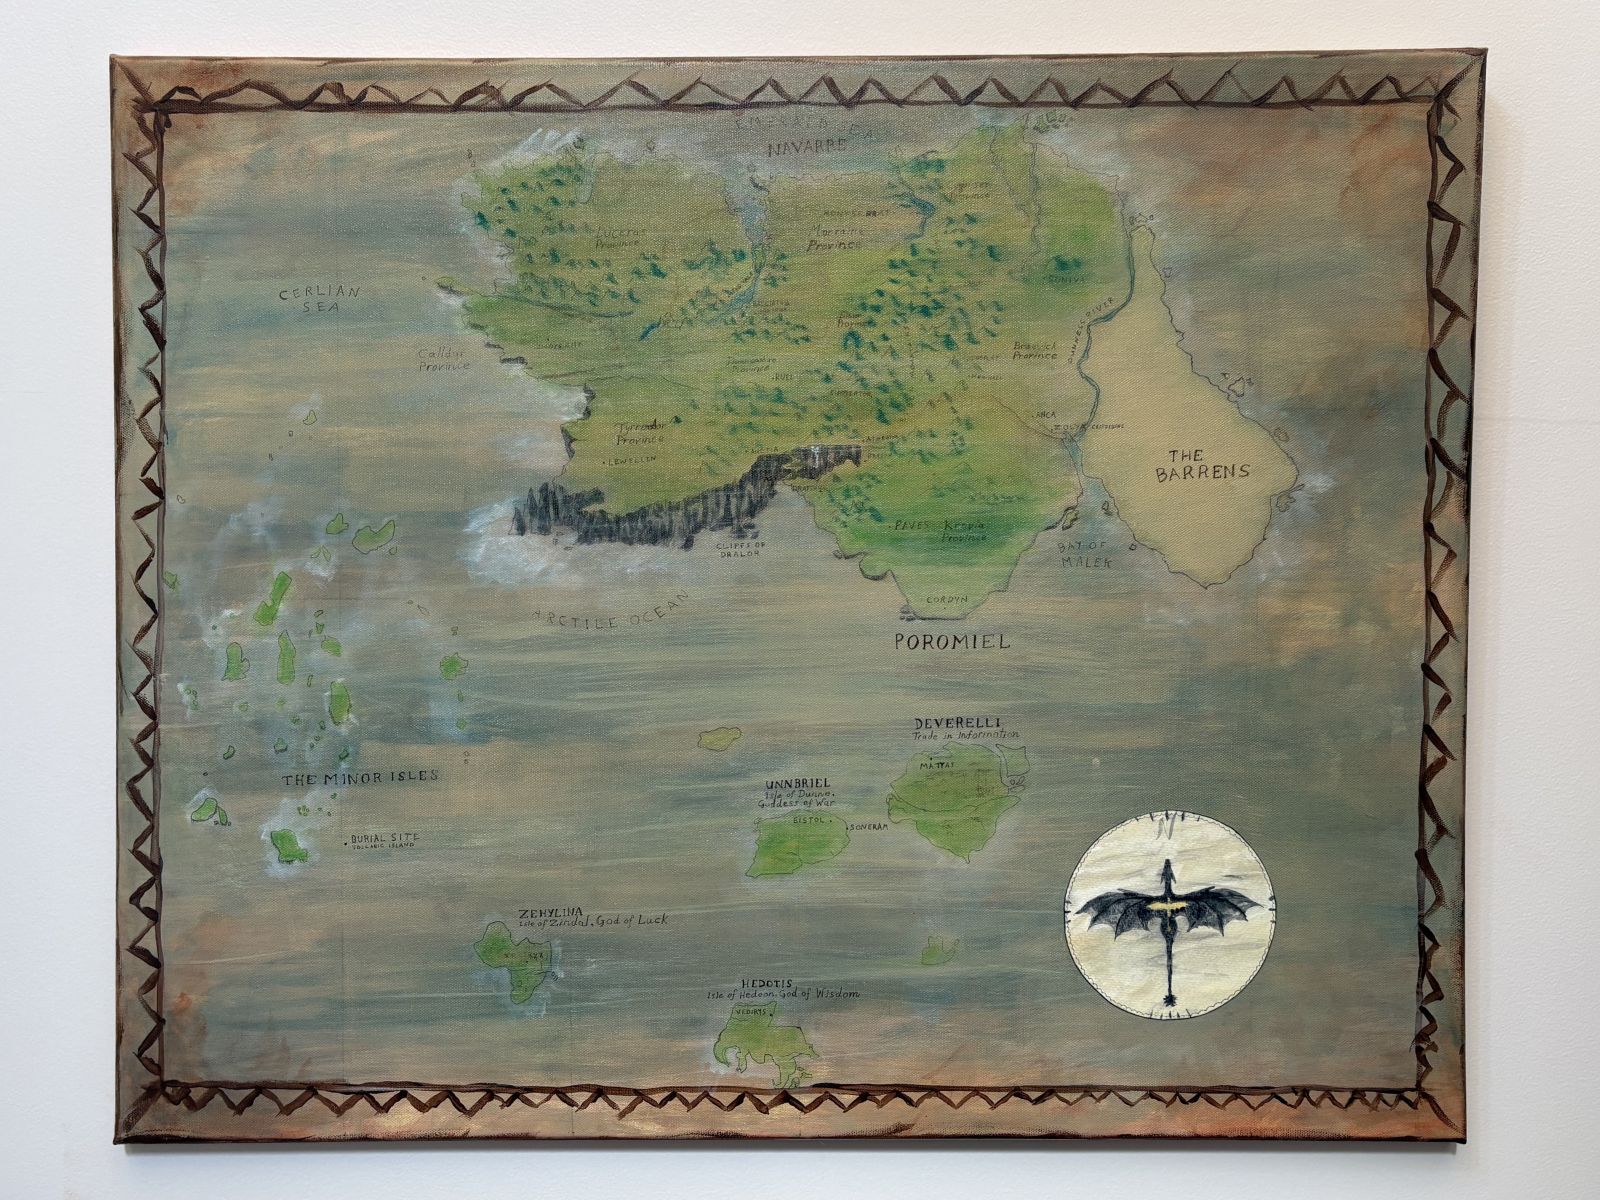
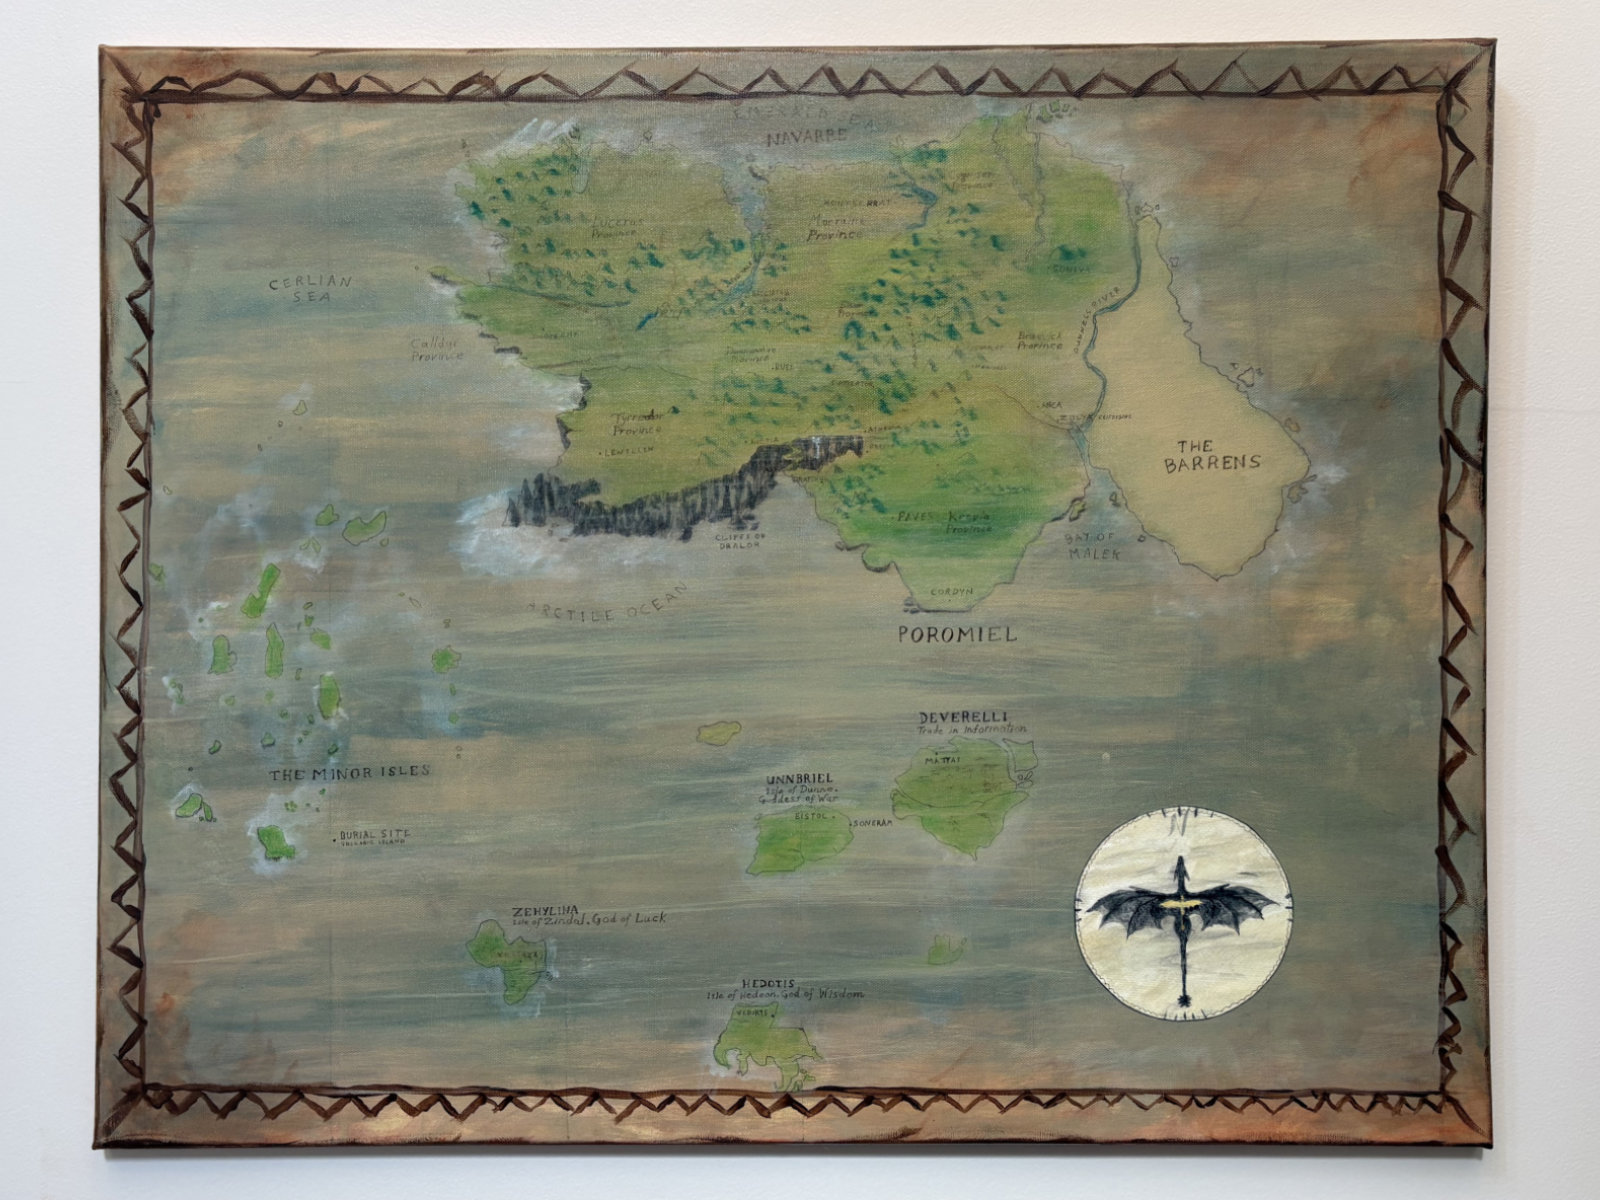
smaller map images for performance

diff --git a/work/workshop/index.html b/work/workshop/index.html
@@ -24,7 +24,7 @@
     <div class="info-block reveal" data-delay="100"><h3>Maps</h3><p>I obviously loved the classic Lord of the Rings maps as a kid, but it was actually old pirate stories and the history of Oak Island which really led me to appreciate the detail and design of both fictional and genuine cartography.</p></div>
     <div class="gallery-grid-2">
       <div class="placeholder square reveal"><img src="/assets/images/workshop/Fourth-wing.jpg"  alt="Fourth Wing world map"></div>
-      <div class="placeholder square reveal" data-delay="100"><img src="/assets/images/workshop/cyrodil.png" alt="Cyrodil Map, Oblivion"></div>
+      <div class="placeholder square reveal" data-delay="100"><img src="/assets/images/workshop/cyrodil.jpg" alt="Cyrodil Map, Oblivion"></div>
       <div class="placeholder square reveal" data-delay="200"><img src="/assets/images/workshop/botw.jpg" alt="Breath of the Wild Map"></div>
       <div class="placeholder square reveal" data-delay="300"><img src="/assets/images/workshop/emerald-isle.jpg" alt="Homebrew DnD map for client"></div>
     </div>

diff --git a/work/index.html b/work/index.html
@@ -179,7 +179,7 @@
 
       <div class="wide-card half reveal" data-delay="100">
         <div class="card-hero">
-          <img src="/assets/images/workshop/cyrodil.png" alt="Project 6">
+          <img src="/assets/images/workshop/desk-1.jpg" alt="The Studio image">
         </div>
         <div class="card-content">
           <span class="project-date">2016+</span>
